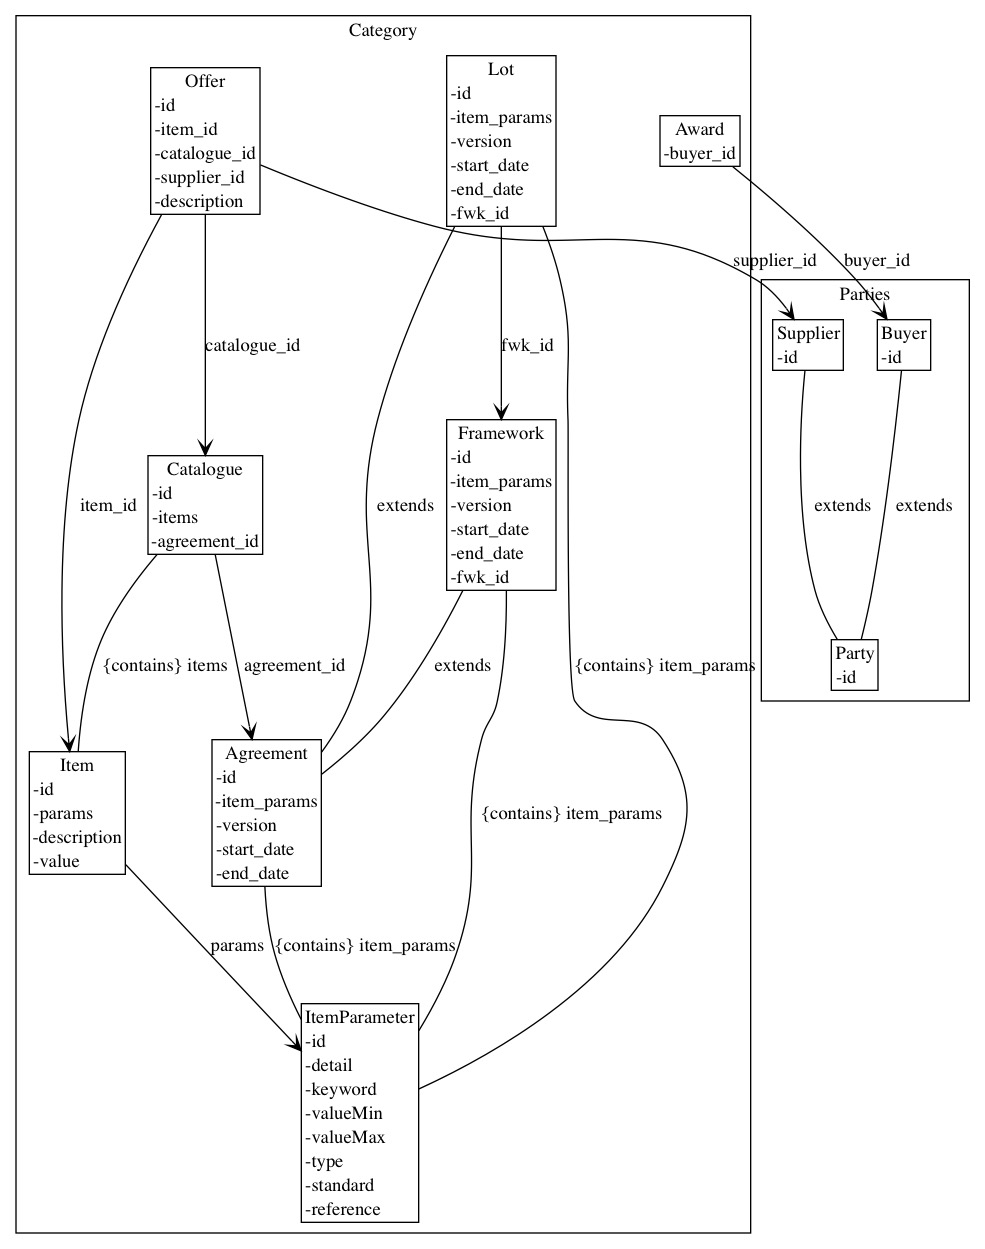
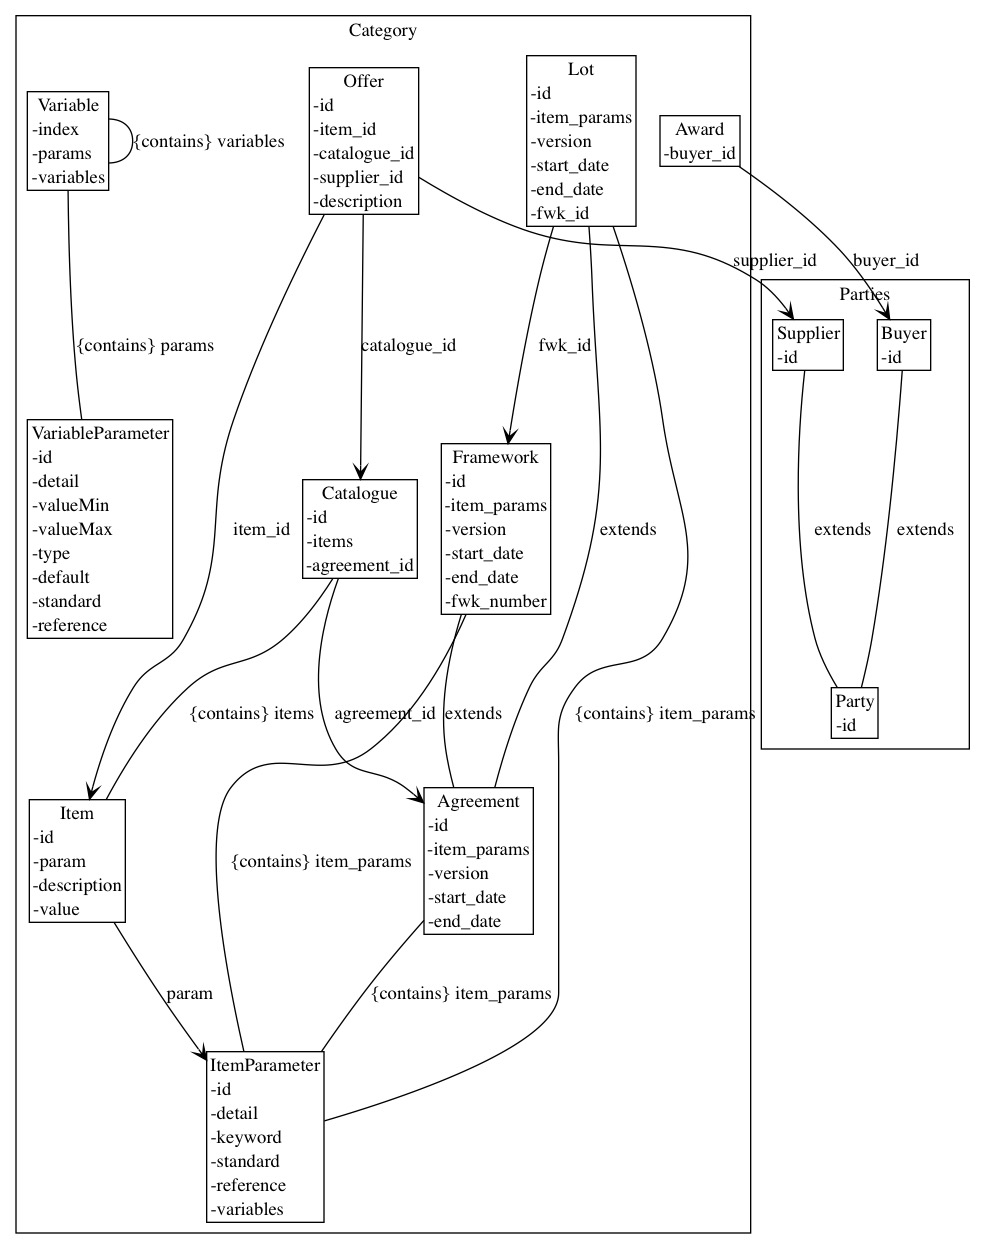
Change data_model to use methods
Don't use method_missing

diff --git a/agreement-design/src/data_model.rb b/agreement-design/src/data_model.rb
@@ -22,7 +22,7 @@ module DataModel
           @description
         end
 
-        self.define_singleton_method(:attributes) do |inherited=true|
+        self.define_singleton_method(:attributes) do |inherited = true|
           if inherited && self.superclass.respond_to?(:attributes)
             self.superclass.attributes.merge @attributes
           else
@@ -43,7 +43,7 @@ module DataModel
       def attribute(name, type, *args, multiplicity: SINGLE, description: "", links: nil)
         options = {:multiplicity => multiplicity, :description => description, :name => name, :type => type}
         if links
-          options[:links]= links
+          options[:links] = links
         end
 
         for opt in args
@@ -55,6 +55,7 @@ module DataModel
             raise "optional arguments should be string (description), or range\n " << opt.to_s
           end
         end
+
         @attributes[name] = options
       end
 
@@ -62,27 +63,31 @@ module DataModel
 
     attr_reader :name, :attributes
 
-    def initialize(name)
+    def initialize(name, attributes = {}, &block)
       @name = name
-      @attributes = {}
-    end
+      @attributes = attributes
 
-
-    def method_missing(sym, *args, &block)
-      if (args.length==0) && @attributes[sym]
-        return @attributes[sym]
-      end
-      if self.class.attributes[sym]
-        if self.class.attributes[sym][:multiplicity] != SINGLE
-          @attributes[sym] = [] unless @attributes[sym]
-          @attributes[sym] << valueof(sym, *args, &block)
-        else
-          @attributes[sym] = valueof(sym, *args, &block)
+      self.class.attributes.keys.each do |k|
+        # add a definition / accessor for each attribute
+        self.define_singleton_method(k) do |*args, &block|
+          if args.length == 0 && !block
+            unless @attributes[k]
+              raise("reading unset attribute #{k} on #{self}")
+            end
+            return @attributes[k]
+          end
+          if self.class.attributes[k][:multiplicity] != SINGLE
+            @attributes[k] = [] unless @attributes[k]
+            @attributes[k] << valueof(k, *args, &block)
+          else
+            @attributes[k] = valueof(k, *args, &block)
+          end
+          return @attributes[k]
         end
-        return @attributes[sym]
       end
-      if sym != :to_ary
-        puts "Warning: unknown attribute #{sym}?"
+
+      if block_given?
+        self.instance_exec &block
       end
     end
 
@@ -96,7 +101,7 @@ module DataModel
       if self.class.attributes[sym][:type] < DataType
         at = self.class.attributes[sym][:type].new(self.class.attributes[sym][:name])
         if nil == block
-          raise "Need a block for a nested type #{sym}"
+          raise "Need a block for a nested type #{sym} in #{self}"
         end
         at.instance_exec &block
         return at
@@ -135,23 +140,31 @@ module DataModel
       @contents = {}
       @name = name
       self.class.const_set name, self
-      self.instance_exec &block
-    end
 
-    def method_missing(sym, &block)
-      # create a new datatype for each matching type name, and run its block
-      for t in self.class.types.values
-        if t.typename.downcase == sym
-          decl = t.new(sym)
-          @contents[sym] = [] unless @contents[sym]
-          @contents[sym] << decl
-          decl.instance_exec &block
+      self.class.types.values.each do |t|
+        # add a definition / accessor for each type
+        k = t.typename.downcase
+        self.define_singleton_method(k.to_sym) do |*args, &block|
+          if args.length == 0 && !block
+            unless @contents[k]
+              raise("reading unset type decl #{k} on #{self}")
+            end
+            return @contents[k]
+          end
+          decl = t.new(k)
+          @contents[k] = [] unless @contents[k]
+          @contents[k] << decl
+          if block_given?
+            decl.instance_exec &block
+          else
+            puts "warning: no block given for type #{k} in #{self}"
+          end
           return decl
         end
+
       end
-      if sym != :to_ary
-        puts "Warning: unknown attribute #{sym}?"
-      end
+
+      self.instance_exec &block
     end
 
   end

diff --git a/agreement-design/test/data_model_test.rb b/agreement-design/test/data_model_test.rb
@@ -80,6 +80,17 @@ class DataModelTest < Test::Unit::TestCase
     assert_equal(2, TestMetamodel::Test_Model.contents[:table][0].attributes[:vals][1], "has vals")
     assert_equal(:content, TestMetamodel::Test_Model.contents[:referencingtype][0].attributes[:mate].attributes[:id], "has vals")
     assert_equal(:content, TestMetamodel::Test_Model.contents[:referencingtype][0].mate.id, "has vals")
+
+    TestMetamodel.new :T2 do
+      table do
+        for i in 7..9
+          vals i
+        end
+      end
+    end
+
+    assert_equal(7, TestMetamodel::T2.table[0].vals[0], "block iterate")
+
   end
 
   private

diff --git a/agreement-design/model/fm.rb b/agreement-design/model/fm.rb
@@ -11,14 +11,16 @@ Category.new :FM do
 
   lot do
     id "1"; fwk_id FM_ID
+
+
+    ip= Category::ItemParameter.new :item_params, { id: 2}
+
     item_params do
-      id 1; valueMin 0; valueMax 100
-      keyword :thing
-      keyword :thing2
+      id 2;
     end
-    item_params do
-      id 2; valueMin 22; valueMax 33
-    end
+
+    item_params= ip
+    item_params= ip
   end
 
   lot do

diff --git a/agreement-design/gen/doc/metamodel.md b/agreement-design/gen/doc/metamodel.md
@@ -1,4 +1,16 @@
- # Category
+## VariableParameter
+  Defines the meaning of Items in Catalogues
+
+|attribute|type|multiplicity|description|
+|---------|----|------------|-----------|
+|id|String|1||
+|detail|String|1||
+|valueMin|String|1||
+|valueMax|String|1||
+|type|String|1|One of: String, Currency, Location, Amount, Document|
+|default|String|1||
+|standard|String|1|which standard defines the item type, such as UBL2.1|
+|reference|String|1|reference within standard, such as UBL2.1/|
 ## ItemParameter
   Defines the meaning of Items in Catalogues
 
@@ -7,18 +19,16 @@
 |id|String|1||
 |detail|String|1||
 |keyword|String|*||
-|valueMin|String|1||
-|valueMax|String|1||
-|type|String|1|One of: String, Currency, Location, Amount|
 |standard|String|1|which standard defines the item type, such as UBL2.1|
 |reference|String|1|reference within standard, such as UBL2.1|
+|variables|Category::VariableParameter|*|define the variables for the item|
 ## Agreement
   General definition of Commercial Agreements
 
 |attribute|type|multiplicity|description|
 |---------|----|------------|-----------|
 |id|String|1||
-|item_params|Category::ItemParameter|*||
+|item_params|Category::ItemParameter|*|item params describe the composition of the agreement|
 |version|String|1|semantic version id of the form X.Y.Z|
 |start_date|Date|1||
 |end_date|Date|1||
@@ -28,29 +38,37 @@
 |attribute|type|multiplicity|description|
 |---------|----|------------|-----------|
 |id|String|1||
-|item_params|Category::ItemParameter|*||
+|item_params|Category::ItemParameter|*|item params describe the composition of the agreement|
 |version|String|1|semantic version id of the form X.Y.Z|
 |start_date|Date|1||
 |end_date|Date|1||
-|fwk_id|String|1|Such as the RM number|
+|fwk_number|String|1|Such as the RM number|
 ## Lot extends Category::Agreement
   
 
 |attribute|type|multiplicity|description|
 |---------|----|------------|-----------|
 |id|String|1||
-|item_params|Category::ItemParameter|*||
+|item_params|Category::ItemParameter|*|item params describe the composition of the agreement|
 |version|String|1|semantic version id of the form X.Y.Z|
 |start_date|Date|1||
 |end_date|Date|1||
-|fwk_id|String|1|Part of framework|
+|fwk_id|String|1|Part of framework with this id (not fwk_no)|
+## Variable
+  detail for an item or need
+
+|attribute|type|multiplicity|description|
+|---------|----|------------|-----------|
+|index|String|1|optional index where many variable exist for the same parameter|
+|params|Category::VariableParameter|*||
+|variables|Category::Variable|*||
 ## Item
   Something offered to a buyer as part of a contract.Items are defined in Catalogues.
 
 |attribute|type|multiplicity|description|
 |---------|----|------------|-----------|
 |id|String|1|Item id, possibly a concatentation of the standard (in params) and the catalogue and an incrementatl id?|
-|params|String|1||
+|param|String|1||
 |description|String|1||
 |value|String|1||
 ## Catalogue
@@ -77,7 +95,6 @@
 |attribute|type|multiplicity|description|
 |---------|----|------------|-----------|
 |buyer_id|String|1||
- # Parties
 ## Party
   
 

diff --git a/agreement-design/gen/doc/frameworks.md b/agreement-design/gen/doc/frameworks.md
@@ -1,19 +1,12 @@
-# Category: FM
- ## framework
 ### framework RM123 
    - id RM123
-   - fwk_id RM123
+   - fwk_number RM123
    - version 1.0.0
- ## lot
 ### lot 1 
    - id 1
    - fwk_id RM123
-#### item_params 1 
-     - id 1
-     - valueMin 0
-     - valueMax 100
-     - keyword.1 thing
-     - keyword.2 thing2
+#### item_params 2 
+     - id 2
 ### lot 2 
    - id 2
    - fwk_id RM123
